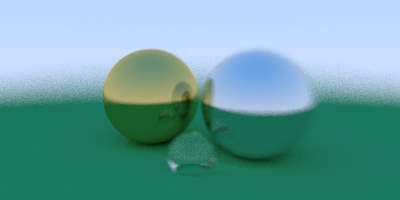
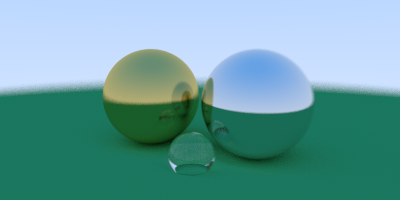
better parameters for examples

diff --git a/main.cc b/main.cc
@@ -48,13 +48,13 @@ Vec3 color(const Ray& r, const ObjCollection& world, int n) {
 void writeImage() {
     int nx = 400;
     int ny = 200;
-    int ns = 100;
+    int ns = 200;
     // camera position
     Vec3 origin(1.0, 0.5, 1.0);
     Vec3 lookAt(0.0, 0.0, -1.5);
     Vec3 vup(0.0, 1.0, 0.0);
     Camera cam(origin, lookAt, vup, 40, float(nx)/float(ny),
-               1.0, (origin-lookAt).norm());
+               0.3, (origin-lookAt).norm());
     ObjCollection world;
     // material
     Vec3 albedo = Vec3(0.04, 0.4, 0.14);
